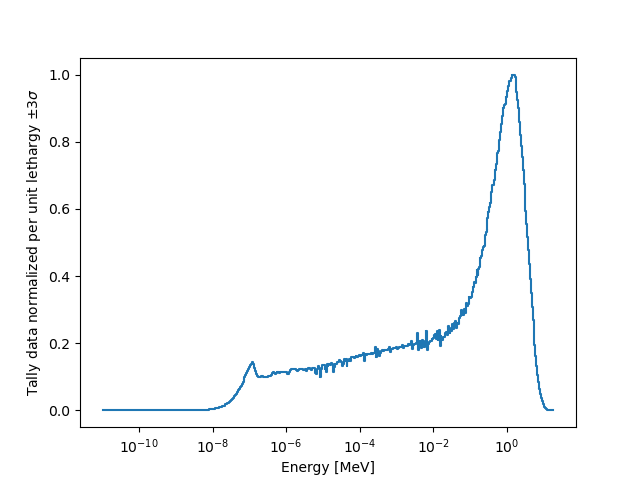
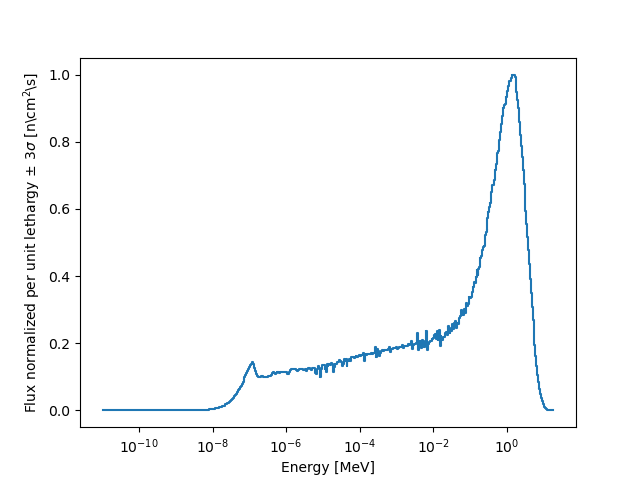
Updates from Journal article

Changed region(s): [[0.0312, 0.1562, 0.0625, 0.875]]

diff --git a/snapReactors/reactor_models/Dry_Experiments_Models/Power Distribution/PowerDistribution.py b/snapReactors/reactor_models/Dry_Experiments_Models/Power Distribution/PowerDistribution.py
@@ -48,8 +48,12 @@ plt.show()
 vert = c6.detectors['zmesh']
 tallies = vert.slice({'energy':0})
 xvals = vert.grids['Z'][:,0]
+print(xvals)
 error = vert.errors[0]*3
 norm_tallies = normalize_array(tallies)
+error = [error[0], error[10], error[23], error[37], error[51], error[65], error[79], error[95]]
+xvals = [xvals[0], xvals[10], xvals[23], xvals[37], xvals[51], xvals[65], xvals[79], xvals[95]]
+norm_tallies = [norm_tallies[0], norm_tallies[10], norm_tallies[23], norm_tallies[37], norm_tallies[51], norm_tallies[65], norm_tallies[79], norm_tallies[95]]
 xvals_exp = [-18.929088277858177, -14.848046309696093, -9.84081041968162, -4.688856729377715, 0.3183791606367592, 5.412445730824892, 10.506512301013025, 16.497829232995656]
 norm_exp = [0.34285714285714286, 0.8457142857142858, 1.110857142857143, 1.3554285714285714, 1.350857142857143, 1.1611428571428573, 0.7085714285714286, 0.28571428571428575]
 norm_exp = normalize_array(norm_exp)

diff --git a/snapReactors/reactor_models/Dry_Experiments_Models/Uncertainty Quantification/uncertainty.py b/snapReactors/reactor_models/Dry_Experiments_Models/Uncertainty Quantification/uncertainty.py
@@ -24,3 +24,22 @@ std_deviation = np.std(data_array)
 # Print the results
 print("Average:", average_value)
 print("Standard Deviation:", std_deviation)
+
+## Hydrogen weight percent Uncertainty ##
+#---------------------------------------#
+hydrogenLoading = [
+    1.62, 1.63, 1.64, 1.62, 1.62, 1.64, 
+    1.63, 1.62, 1.59, 1.59, 1.57, 1.62, 
+    1.61, 1.55, 1.60, 1.61, 1.60
+]
+
+# Convert the data to a NumPy array for easy computation
+data_array = np.array(hydrogenLoading)
+
+# Calculate the average and standard deviation
+average_value = np.mean(data_array)
+std_deviation = np.std(data_array)
+
+# Print the results
+print("Average:", average_value)
+print("Stadnard Deviation:", std_deviation)

diff --git a/snapReactors/reactor_models/Dry_Experiments_Models/Neutron Spectrum/C3/whole_core/Spectrum.py b/snapReactors/reactor_models/Dry_Experiments_Models/Neutron Spectrum/C3/whole_core/Spectrum.py
@@ -8,5 +8,5 @@ c3File = 's8c3_RevisedDrum.main_det0.m'
 c3 = serpentTools.read(c3File)
 
 spectrum = c3.detectors['EnergyDetector']
-spectrum.spectrumPlot()
+spectrum.spectrumPlot(ylabel = 'Flux normalized per unit lethargy $\pm\:\: 3\sigma$ [n\cm$^2$\s]')
 plt.show()
